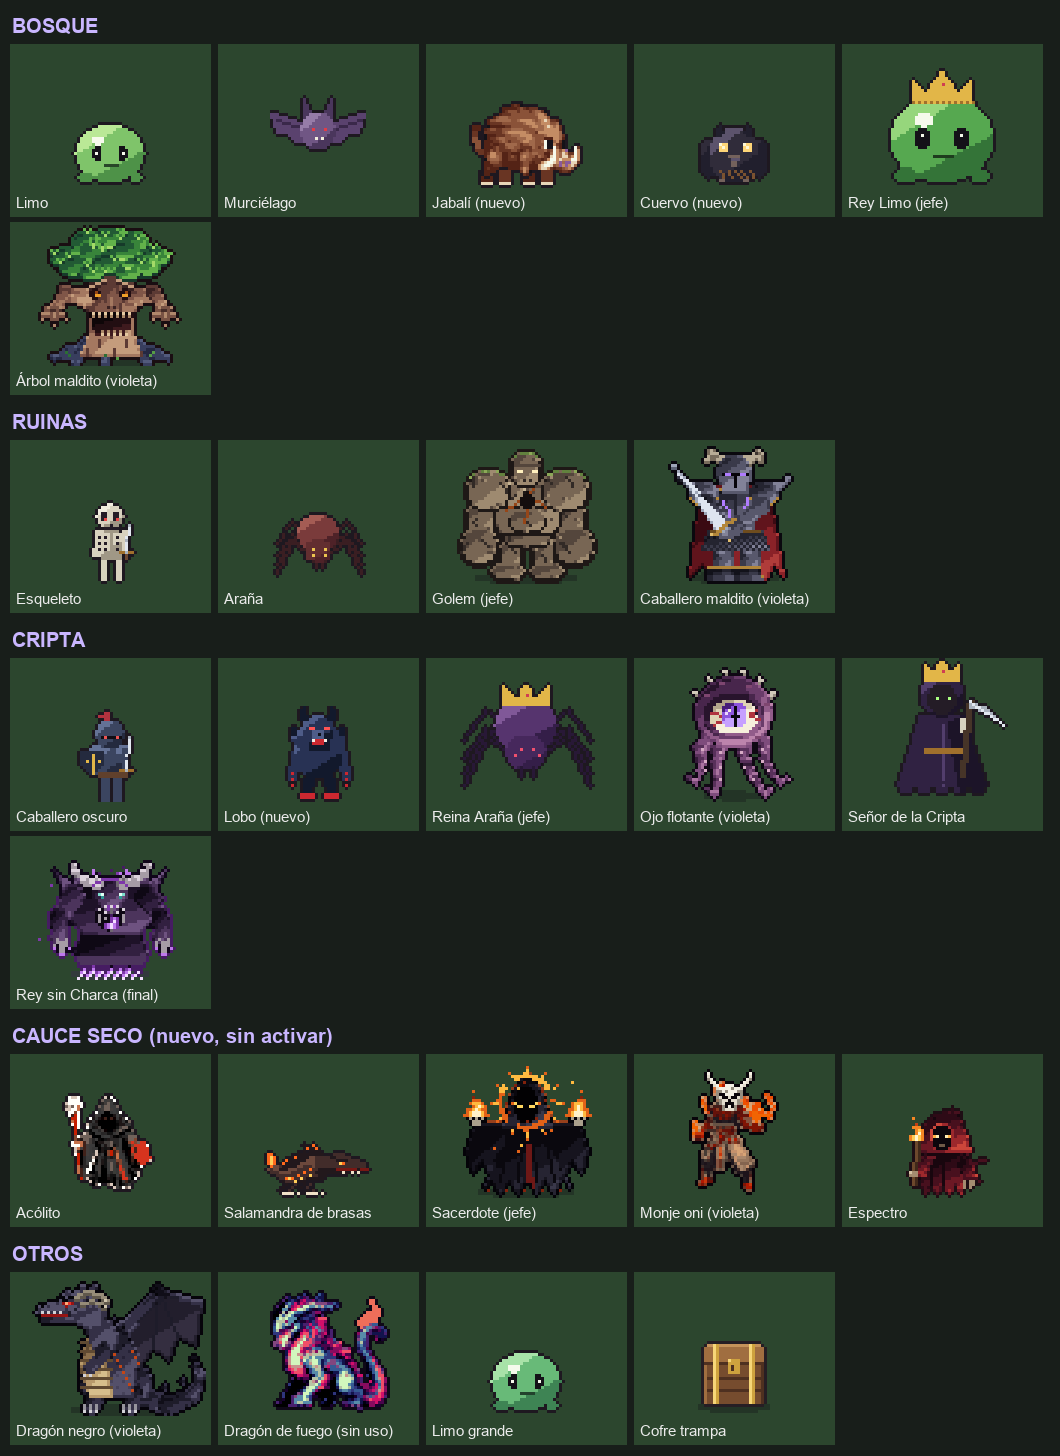
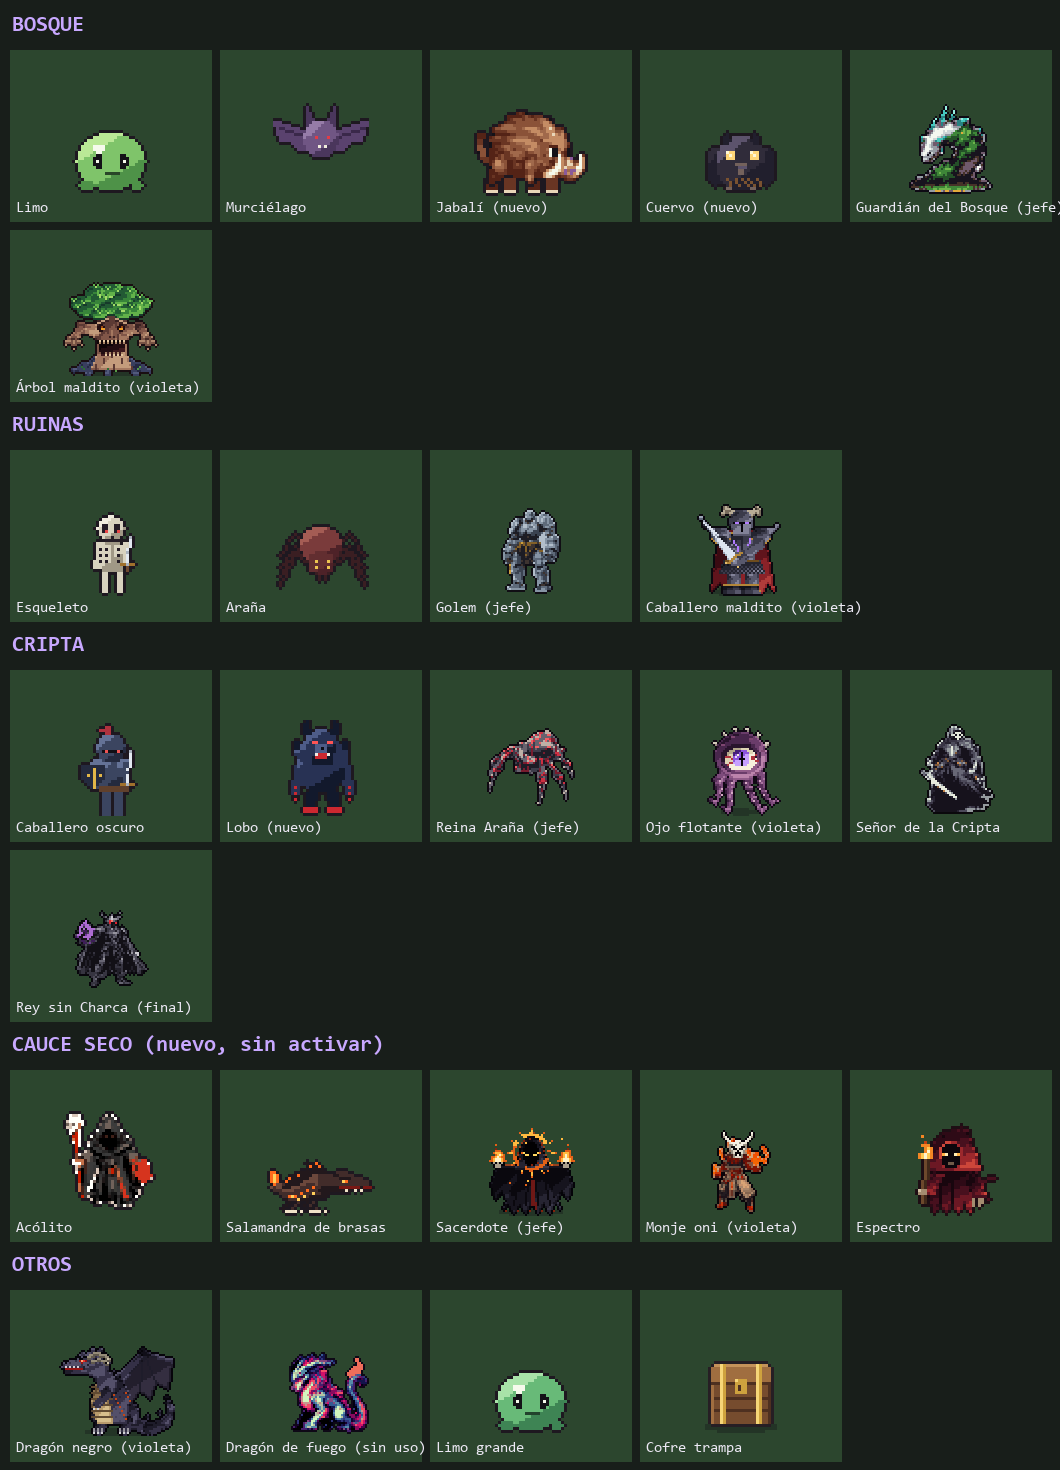
Cauce Seco: cierre de la zona (imagen de revisión, galería de monstruos y documentación)

diff --git a/CLAUDE.md b/CLAUDE.md
@@ -19,7 +19,9 @@ Si el diseño y este archivo discrepan, manda el documento; avisa de la discrepa
 - **Reequilibrado del 2026-10-25 (noche), antes del HD-2D** (Pedro: el juego debe estar equilibrado antes del cambio gráfico). La jugadora simulada bebe éter contra los jefes si no le llega para su golpe más fuerte (antes no, y la ronin parecía más débil de lo que es). Ronin con más fuerza a mitad de partida y menos al final (Corte rápido 1,6, Iaido 2,1); dificultades ordenadas (ataque y vida de los monstruos no bajan de Fácil a Difícil, la recuperación no sube); ojo flotante con menos magia y más vida, para que su combate no sea todo o nada. Los valores se buscaron con margen, no en el filo.
 - **Reglas nuevas (2026-10-30), rama `reglas-nuevas`: primera entrega del Cauce Seco** (cuarta zona de fuego entre la Cripta y el Rey; diseño en `docs/superpowers/specs/2026-10-30-cauce-seco-design.md`, plan de esta entrega en `docs/superpowers/plans/2026-10-30-reglas-nuevas.md`, referencia previa en `...-referencia.md`). Pedro: «el juego tiene que ser un reto». Fórmula de daño por **cociente**, `max(1, ⌊(ATQ×poder)² / (ATQ×poder + DEF×factor) × varianza × crítico⌋)` (factor 0,5 físico y 0,25 mágico; `calcularDanio` en `src/core/combate.ts`): la defensa ya no anula el golpe, pero tampoco neutraliza los golpes bajos de los monstruos, así que el juego salió más difícil. **Nivel máximo 12.** Rangos de victoria de partida completa **Fácil 65-75 %, Normal 45-55 %, Difícil 25-35 %** y jefes violetas 65/50/35 de media (±10). Para cuadrarlo (ver los `Ruling` del registro del plan): ronin +2 de ataque por nivel (antes +1), maga 41 PV (antes 36), vida de los monstruos ×1,07 en las tres dificultades, ataque ×1,09 en Fácil, 1,11 en Normal y Difícil, y más vida al Señor de la Cripta y al Rey sin Charca. Las cifras caen dentro de rango con 1-3 puntos de margen (la vida de los monstruos se redondea a enteros y salta: ×1,08 hunde a la ronin). Falta la entrega 3 (el Cauce Seco); la 2 (monstruos nuevos) está en la rama `monstruos-nuevos`. El documento de desarrollo sigue describiendo la fórmula de resta: hay que actualizarlo.
 - **Monstruos nuevos (2026-10-30), rama `monstruos-nuevos`: entrega 2 del Cauce Seco** (plan en `docs/superpowers/plans/2026-10-30-monstruos-nuevos.md`). **Jabalí** y **Cuervo** entran en el Bosque y el **Lobo** en la Cripta; el **Espectro** sale de la Cripta y queda con `oculto: true` hasta el Cauce Seco (así «Naturalista» no lo pide). Sprites de 32×32 (el jabalí, 40×40) dibujados por script (`jabali.py`, que reduce su imagen de referencia y la repinta con la paleta del juego; `criaturas.py`: cuervo; `humanoides.py`: lobo), con las imágenes de `docs/superpowers/mockups/cauce-seco-referencias/` como guía; imagen de revisión en `docs/previews/monstruos_nuevos_x4.png`. Para regenerar solo los monstruos: `.venv\Scripts\python.exe tools\generadores\monstruos\generar.py` (nunca `generar_todo.py`) y luego `git checkout` de lo que reescriba sin necesidad (`espectro.png` y `golem.png` cambian de bytes aunque sean iguales). El bestiario pasa a 7 casillas por fila (21). Reequilibrado: lobo 54 PV/ataque 15/velocidad 8, jabalí 25 PV/ataque 7, cuervo ataque 6, PV iniciales de la ronin 46 y de la maga 40, ataque de monstruos en Fácil ×1,08 y recuperación en Difícil 0,44. Resultado (ronin / maga): Fácil 70 / 69, Normal 49 / 53, Difícil 32 / 32. Nota para el Cauce Seco: `tests/monstruos.test.ts` exige que los Dragones negros compartan sprite. **El arte lo tiene que aprobar Pedro** (el jabalí se rehízo cuatro veces tras sus comentarios; la comparación con su imagen está en `docs/previews/jabali_comparacion.png`).
-- **Arte del Cauce Seco (2026-10-30), rama `arte-cauce-seco`: entrega 3a** (plan en `docs/superpowers/plans/2026-10-30-arte-cauce-seco.md`). Solo arte, **sin datos todavía** (las fichas, los grupos y el equilibrado van en la 3d). Sprites nuevos en `public/assets/sprites/monstruos/`: `acolito` (40×40, reducido de su referencia), `salamandra` (40×40, a mano: oscura, con grietas de brasa y la cola ardiendo), `sacerdote` (48×48, a mano: alto y flaco, brazos abiertos, mangas rasgadas, ojos de rendija y el sol roto detrás; rehecho tras decir Pedro que no daba miedo), `oni` (48×48, reducido de su referencia con la máscara de calavera repintada encima y la sombra del suelo quitada como fondo) y `dragon_fuego` (64×48, reducido de su referencia; **recurso sin uso**: el Dragón negro se mantiene en las cuatro zonas). El **Dragón negro** se rehízo más fiero (cuernos de hueso, colmillos, cuerpo más negro, halo rojo en el ojo, brasas). `tools/generadores/monstruos/reducir.py` es el método para sacar un sprite de una imagen (quita el fondo, reduce con `brillo`/`saturacion`/`contraste`, limpia la silueta y pone contorno); el aviso «toca el borde del cuadro» de `generar.py` vigila los monstruos de `VIGILADOS`. Pedro pidió que el arte sea **sobrio y oscuro, no infantil** (sin ojos grandes y redondos ni naranjas lisos). Test de formato: `tests/hojas_cauce.test.ts`. Imagen de revisión: `docs/previews/cauce_monstruos_x3.png`. **El arte lo tiene que aprobar Pedro.**
+- **Arte del Cauce Seco (2026-10-30), rama `arte-cauce-seco` (PR #14, sin fusionar): entrega 3a** (plan en `docs/superpowers/plans/2026-10-30-arte-cauce-seco.md`). Solo arte, **sin datos todavía** (las fichas, los grupos y el equilibrado van en la 3d). Sprites nuevos en `public/assets/sprites/monstruos/`: `acolito` (40×40, reducido de su referencia), `salamandra` (40×40, a mano: oscura, con grietas de brasa y la cola ardiendo), `sacerdote` (48×48, a mano: alto y flaco, brazos abiertos, mangas rasgadas, ojos de rendija y el sol roto detrás; rehecho tras decir Pedro que no daba miedo), `oni` (48×48, reducido de su referencia con la máscara de calavera repintada encima y la sombra del suelo quitada como fondo) y `dragon_fuego` (64×48, reducido de su referencia; **recurso sin uso**: el Dragón negro se mantiene en las cuatro zonas). El **Dragón negro** se rehízo más fiero (cuernos de hueso, colmillos, cuerpo más negro, halo rojo en el ojo, brasas). `tools/generadores/monstruos/reducir.py` es el método para sacar un sprite de una imagen (quita el fondo, reduce con `brillo`/`saturacion`/`contraste`, limpia la silueta y pone contorno); el aviso «toca el borde del cuadro» de `generar.py` vigila los monstruos de `VIGILADOS`. Pedro pidió que el arte sea **sobrio y oscuro, no infantil** (sin ojos grandes y redondos ni naranjas lisos). Test de formato: `tests/hojas_cauce.test.ts`. Imagen de revisión: `docs/previews/cauce_monstruos_x3.png`. **El arte lo tiene que aprobar Pedro.**
+- **La zona del Cauce Seco (2026-10-30), rama `cauce-seco-zona` (sale de `arte-cauce-seco`): entrega 3b, hecha y subida, sin fusionar ni activar** (plan en `docs/superpowers/plans/2026-10-30-zona-cauce-seco.md`). **La zona sigue sin estar en `zonas.json`**: `cauce` solo aparece en `hd2d.json`, `sonido.json`, los tilesets, las plantillas, `main.ts` (visor de desarrollo) y los tests. Qué hay: tileset `cauce` (`tools/generadores/entorno/cauce.py`: muros de obsidiana violácea con hornacina de aro de fuego y veta de brasa, puertas con aro de fuego, suelo de lecho pardo con guijarros y brasas; pilar con grieta de brasa, roca, escombros, columna rota y `brasero` de dos fotogramas), autotiles `lecho` y `lava` (`zonas_auto.py`, `cauce_auto()`), 8 plantillas (`plantillas_cauce.json`, símbolo `B` = brasero; la fuente del descanso es el único agua, decisión mía **sin confirmar con Pedro**), aspecto 3D (`zonas.cauce` y `luces.brasero` en `hd2d.json`) y una pista de música `cauce` (tempo 90, re frigio, tres voces; **no se ha oído**, solo se comprobó que está bien formada). **Cómo verla:** `npm run dev` y abrir `?portada=cauce_combate_01` (o `cauce_descanso_01`, `cauce_jefe_01`, `cauce_tesoro_01`…); `&vista=x,z,ancho` acerca la cámara (solo en desarrollo). Imagen de revisión: `docs/previews/cauce_zona_x2.png`. **El mapa 3D cambió para todas las zonas (2026-10-30):** los muros del borde son cajas con el tile de remate arriba y el de cara en los lados (antes, ruido de tres colores; se quitaron `hiladas`, `porCasilla`, `irregular`, `salida` y `hueco` de `borde` en `hd2d.json`) y **todos los objetos son sprites de pie con su dibujo real** (se borró `crearModelo` y sus modelos de formas sencillas; quedan solo las barreras de las salidas, `crearBarrera`). Pedro lo pidió: «quiero que se vea como lo hemos diseñado». **Sin probar en el móvil ni en una partida** (solo con Edge sin cabeza en la portada, y no se vieron las Ruinas ni la Cripta). Pendiente: las puertas abiertas con su arco no se ven en 3D (se pintan como suelo). Falta 3c (equipo de nivel 4, textos, bestiario) y 3d (activar, fichas de datos, equilibrado).
+- **Jefes rehechos desde imágenes de Pedro (2026-10-30), en `cauce-seco-zona`:** el arte de los jefes sale ahora de sus imágenes de referencia (`docs/superpowers/mockups/cauce-seco-referencias/8` a `13`) con `reducir.py`, un módulo por jefe en `tools/generadores/monstruos/` y registrado en `PROPIOS`: `guardian_bosque.py` (clave `rey_limo`, que **sigue llamándose «Rey Limo» en `monstruos.json`**: renombrarlo toca `monstruos.json`, `zonas.json` y `tests/jefes.test.ts`; propuesta «Guardián del Bosque»; 64×48), `golem.py` (48×48), `reina_arana.py` (64×48), `senor_cripta.py` (48×48, imagen de la calavera con espada con la figura separada del fondo con un contorno a mano) y `rey_sin_charca.py` (64×48). Pedro: «los jefes con corona son muy infantiles», «quiero que se sientan jefes amenazantes, guardianes de su zona». Trucos que funcionaron: paleta fija (si no, el turquesa y el negro se hunden), afilar antes de reducir, dibujar a mano lo que se pierde (cuchillas de la cresta, calavera y ojos), recortar o comprimir la figura para ganar píxeles de ancho. Galería: `docs/previews/todos_monstruos.png`. Límite: en combate cada sprite se dibuja al doble y por encima solo cabe hasta ~42 px (nombre y barra de turnos), así que un cuadro mayor de 48 de alto no sirve. **El Señor de la Cripta (negro, gris y rojo) y el Rey sin Charca (negro con fuego morado) ya no se parecen tanto, y el diseño dice que uno se transforma en el otro: Pedro no lo ha comentado.**
 - **Menús nuevos de combate e inventario (2026-10-26)**, rama `menus-nuevos`: estilo de Octopath (doble filete con rombos, brillo y rombo de cursor) en lavanda de Nenúfar, con la barra de PX en verde (`src/render/marco.ts`, colores en `PALETA`). Combate: panel abajo en dos columnas (lista con el coste y, a la derecha, qué hace lo elegido y la ficha de la heroína); la escena sube para no tapar a ningún jefe; sin botón «i» (la descripción está siempre a la vista). Inventario: lista a la izquierda (Heroína, Objetos, Equipo, Mejorar, Ajustes; Seguir y Salir abajo) y la sección a la derecha. Toque: dos toques (el primero elige y dice qué hace) en habilidades, objetos y enemigo; uno en lo demás (`src/core/menu.ts`). Diseño en `docs/superpowers/specs/2026-10-26-menus-design.md`, bocetos en `docs/superpowers/mockups/`; la disposición A (lista junto a quien actúa) queda como idea.
 - **Estilo lavanda en todas las pantallas (2026-10-27), rama `estilo-pantallas`.** Elegir rana, nombre, dificultad, puntos, equipo, portada, bestiario y logros, controles, mensajes, cartel de victoria, avisos del HUD y minimapa usan `src/render/marco.ts` (`dibujarFondo`, `dibujarCabecera`, `dibujarCaja`, `dibujarMarco`, `dibujarFila`, `PALETA`). `dibujarMenu` (botones) ya pinta cajas lavanda; `rectOpcion` sigue en uso. Quedan dorados solo en arte (mochila, modelos 3D). **Niebla (2026-10-27):** en el mapa el desenfoque ya no sigue a la heroína: la zona jugable se ve nítida y solo se emborronan los árboles de alrededor (`src/render/mundo/desenfoque.ts`, números en `bordes` de `hd2d.json`: `muro` 1, `fuerza` 6; con `muro` 2 la heroína sale borrosa al pegarse al borde). El combate y la portada siguen con el tilt-shift.
 - **Pantalla completa y sala grande (2026-10-27), rama `pantalla-completa`, publicada.** El mapa 3D y el canvas 2D cubren toda la ventana. La sala es de 21×13 tiles (672×416, `SALA_ANCHO`/`SALA_ALTO` en `src/render/pantalla.ts`) y se escala a todo lo que cabe, sin múltiplo entero. El canvas 2D tiene dos formas de colocarse (`fijarModo`, `colocarContexto`, `aLogico`): «ventana» (el mapa: HUD arriba a los lados, minimapa a la izquierda de la mochila con escala entera según el ancho libre, `ESCALA_HUD` 0,75) y «menú» (todo lo demás: la interfaz de 480×352 centrada; los fondos llenan `area`). Cada escena dice con `ventana` si dibuja en coordenadas de ventana y con `conMundo` si usa el 3D (si no, se oculta). El panel de acción del combate se dibuja a `PANEL_ESCALA` (`aPanel` para el toque; 0,8 se quedaba pequeño para el dedo, desde 2026-10-29 es 1). Decorado de fuera de la sala en `crearExterior` (`borde.ts`, `exterior` de `hd2d.json`). Las plantillas (24) se ensancharon con un script y se les repartió decorado al azar con semilla: sin retocar a mano. Pendiente: el fundido entre salas solo cubre la ventana del mapa pero no probado en móvil; Ruinas y Cripta, exterior muy plano; Pedro tiene que probarlo en el móvil.
@@ -63,7 +65,7 @@ Si el diseño y este archivo discrepan, manda el documento; avisa de la discrepa
 - `public/assets/tilesets/comunes.json`: cofres, fuente, portal y hoguera, compartidos por todas las zonas. **Se carga siempre junto al tileset de la zona**: las plantillas los usan (`X`, `F`, `>`, `H`) y no existen en los tilesets de zona.
 - `public/assets/tilesets/<zona>_autotiles.json`: 16 variantes por tipo, máscara `N=1, E=2, S=4, O=8`.
 - `src/data/salas/plantillas_<zona>.json`: mapas ASCII de 15×11 con su `leyenda` y `autotiles`. Para dibujar una sala igual que las vistas previas, ver `tools/generadores/entorno/plantilla.py` (orden de capas, sombras de muros hacia abajo y la derecha, halos de luz).
-- Monstruos: la mayoría salen de `tools/generadores/monstruos/humanoides.py` y similares; `espectro`, `golem` y `rey_sin_charca` tienen módulo propio (registrado en `PROPIOS` de `generar.py`) con `fotograma(direccion, anim, i)`. Los jefes van en 48 de alto (el Rey, 64×48) y no suben más de ~42 px sobre los pies, para no tapar su nombre en combate.
+- Monstruos: la mayoría salen de `tools/generadores/monstruos/humanoides.py` y similares; `espectro`, `golem`, `rey_sin_charca`, `rey_limo` (`guardian_bosque.py`), `reina_arana` y `senor_cripta` tienen módulo propio (registrado en `PROPIOS` de `generar.py`) con `fotograma(direccion, anim, i)`. Los jefes van en 48 de alto (el Rey, 64×48) y no suben más de ~42 px sobre los pies, para no tapar su nombre en combate.
 - Para cambiar arte: editar los scripts de `tools/generadores/` y ejecutar `python tools/generadores/generar_todo.py` (requiere `pip install -r tools/requirements.txt`). Es determinista.
 
 ## Comandos

diff --git a/docs/superpowers/specs/2026-10-30-cauce-seco-design.md b/docs/superpowers/specs/2026-10-30-cauce-seco-design.md
@@ -166,3 +166,10 @@ Los cofres de cada zona dan objetos de un nivel (Bosque 1, Ruinas 2, Cripta 3). 
 - **El Dragón negro se mantiene en las cuatro zonas** (los tests exigen que las cuatro variantes compartan sprite) y se hizo más fiero. El dragón de fuego (imagen 6) queda como arte para más adelante: `dragon_fuego`, 64×48, sin datos.
 - **Las fichas de datos de los monstruos nuevos van en la 3d**, junto al equilibrado: si se añadieran antes, el bestiario y «Naturalista» pedirían monstruos que nadie puede encontrar.
 - **Criterio de arte (Pedro):** sobrio y oscuro; los monstruos no deben verse infantiles (nada de ojos grandes y redondos ni de color liso).
+
+## Cambios del 2026-10-30 (noche)
+
+- **Los cinco jefes se rehacen a partir de imágenes de Pedro** (Guardián del Bosque, Golem, Reina Araña, Señor de la Cripta y Rey sin Charca): sobrios, oscuros y amenazantes, sin coronas. Ver `CLAUDE.md` y `docs/previews/todos_monstruos.png`. El Rey Limo pasa a ser un gusano-dragón cubierto de musgo (se propone llamarlo «Guardián del Bosque»).
+- **La zona (3b) está hecha pero sin activar:** tileset `cauce`, autotiles `lecho` y `lava`, ocho plantillas, aspecto 3D, luz y modelo del brasero, y una pista de música. Imagen de revisión: `docs/previews/cauce_zona_x2.png`.
+- **El mapa 3D de todas las zonas se ve como el arte:** los muros del borde llevan el tile de remate y el de cara (antes, ruido), y los objetos son sprites de pie con su dibujo (antes, modelos de formas sencillas). Decisión de Pedro.
+- **Sin decidir:** si la fuente del descanso del Cauce Seco lleva agua azul (así está), el nombre nuevo del Rey Limo, y cómo se relacionan el arte del Señor de la Cripta y el del Rey sin Charca, que se transforman uno en otro.

diff --git a/docs/superpowers/handoff/2026-10-30-cauce-seco-traspaso.md b/docs/superpowers/handoff/2026-10-30-cauce-seco-traspaso.md
@@ -10,8 +10,8 @@ Lee primero `CLAUDE.md` (estado del proyecto) y este documento; el diseño detal
 |---|---|---|
 | 1 | Reglas nuevas: fórmula de daño por cociente, nivel máximo 12, rangos de victoria 10 puntos más bajos, reequilibrado | **Hecha y publicada** (PR #12) |
 | 2 | Jabalí y cuervo (Bosque), lobo (Cripta); el Espectro sale de la Cripta y queda oculto; bestiario de 7 casillas por fila | **Hecha y publicada** (PR #13) |
-| 3a | **Arte** de los monstruos del Cauce Seco (acólito, salamandra, sacerdote, oni, dragón de fuego) y Dragón negro más fiero | **Hecha en la rama `arte-cauce-seco`**, subida a GitHub, **sin PR ni fusionar**: falta el visto bueno de Pedro al arte |
-| 3b | La zona: tileset, autotiles, 8 plantillas, aspecto 3D, música | **Plan escrito, sin empezar** |
+| 3a | **Arte** de los monstruos del Cauce Seco (acólito, salamandra, sacerdote, oni, dragón de fuego) y Dragón negro más fiero | **Hecha en la rama `arte-cauce-seco`**, subida, **PR #14 abierto sin fusionar**: falta el visto bueno de Pedro al arte. Después se rehicieron los cinco jefes desde sus imágenes (ver `CLAUDE.md`) |
+| 3b | La zona: tileset, autotiles, 8 plantillas, aspecto 3D, música | **Hecha y subida en la rama `cauce-seco-zona`** (sale de `arte-cauce-seco`), sin fusionar ni activar; ver `CLAUDE.md` |
 | 3c | Equipo de nivel 4, textos de la zona, rediseño del bestiario | Sin plan |
 | 3d | Activar la zona (`zonas.json`), fichas de datos de los monstruos y equilibrado con cuatro zonas | Sin plan |
 
